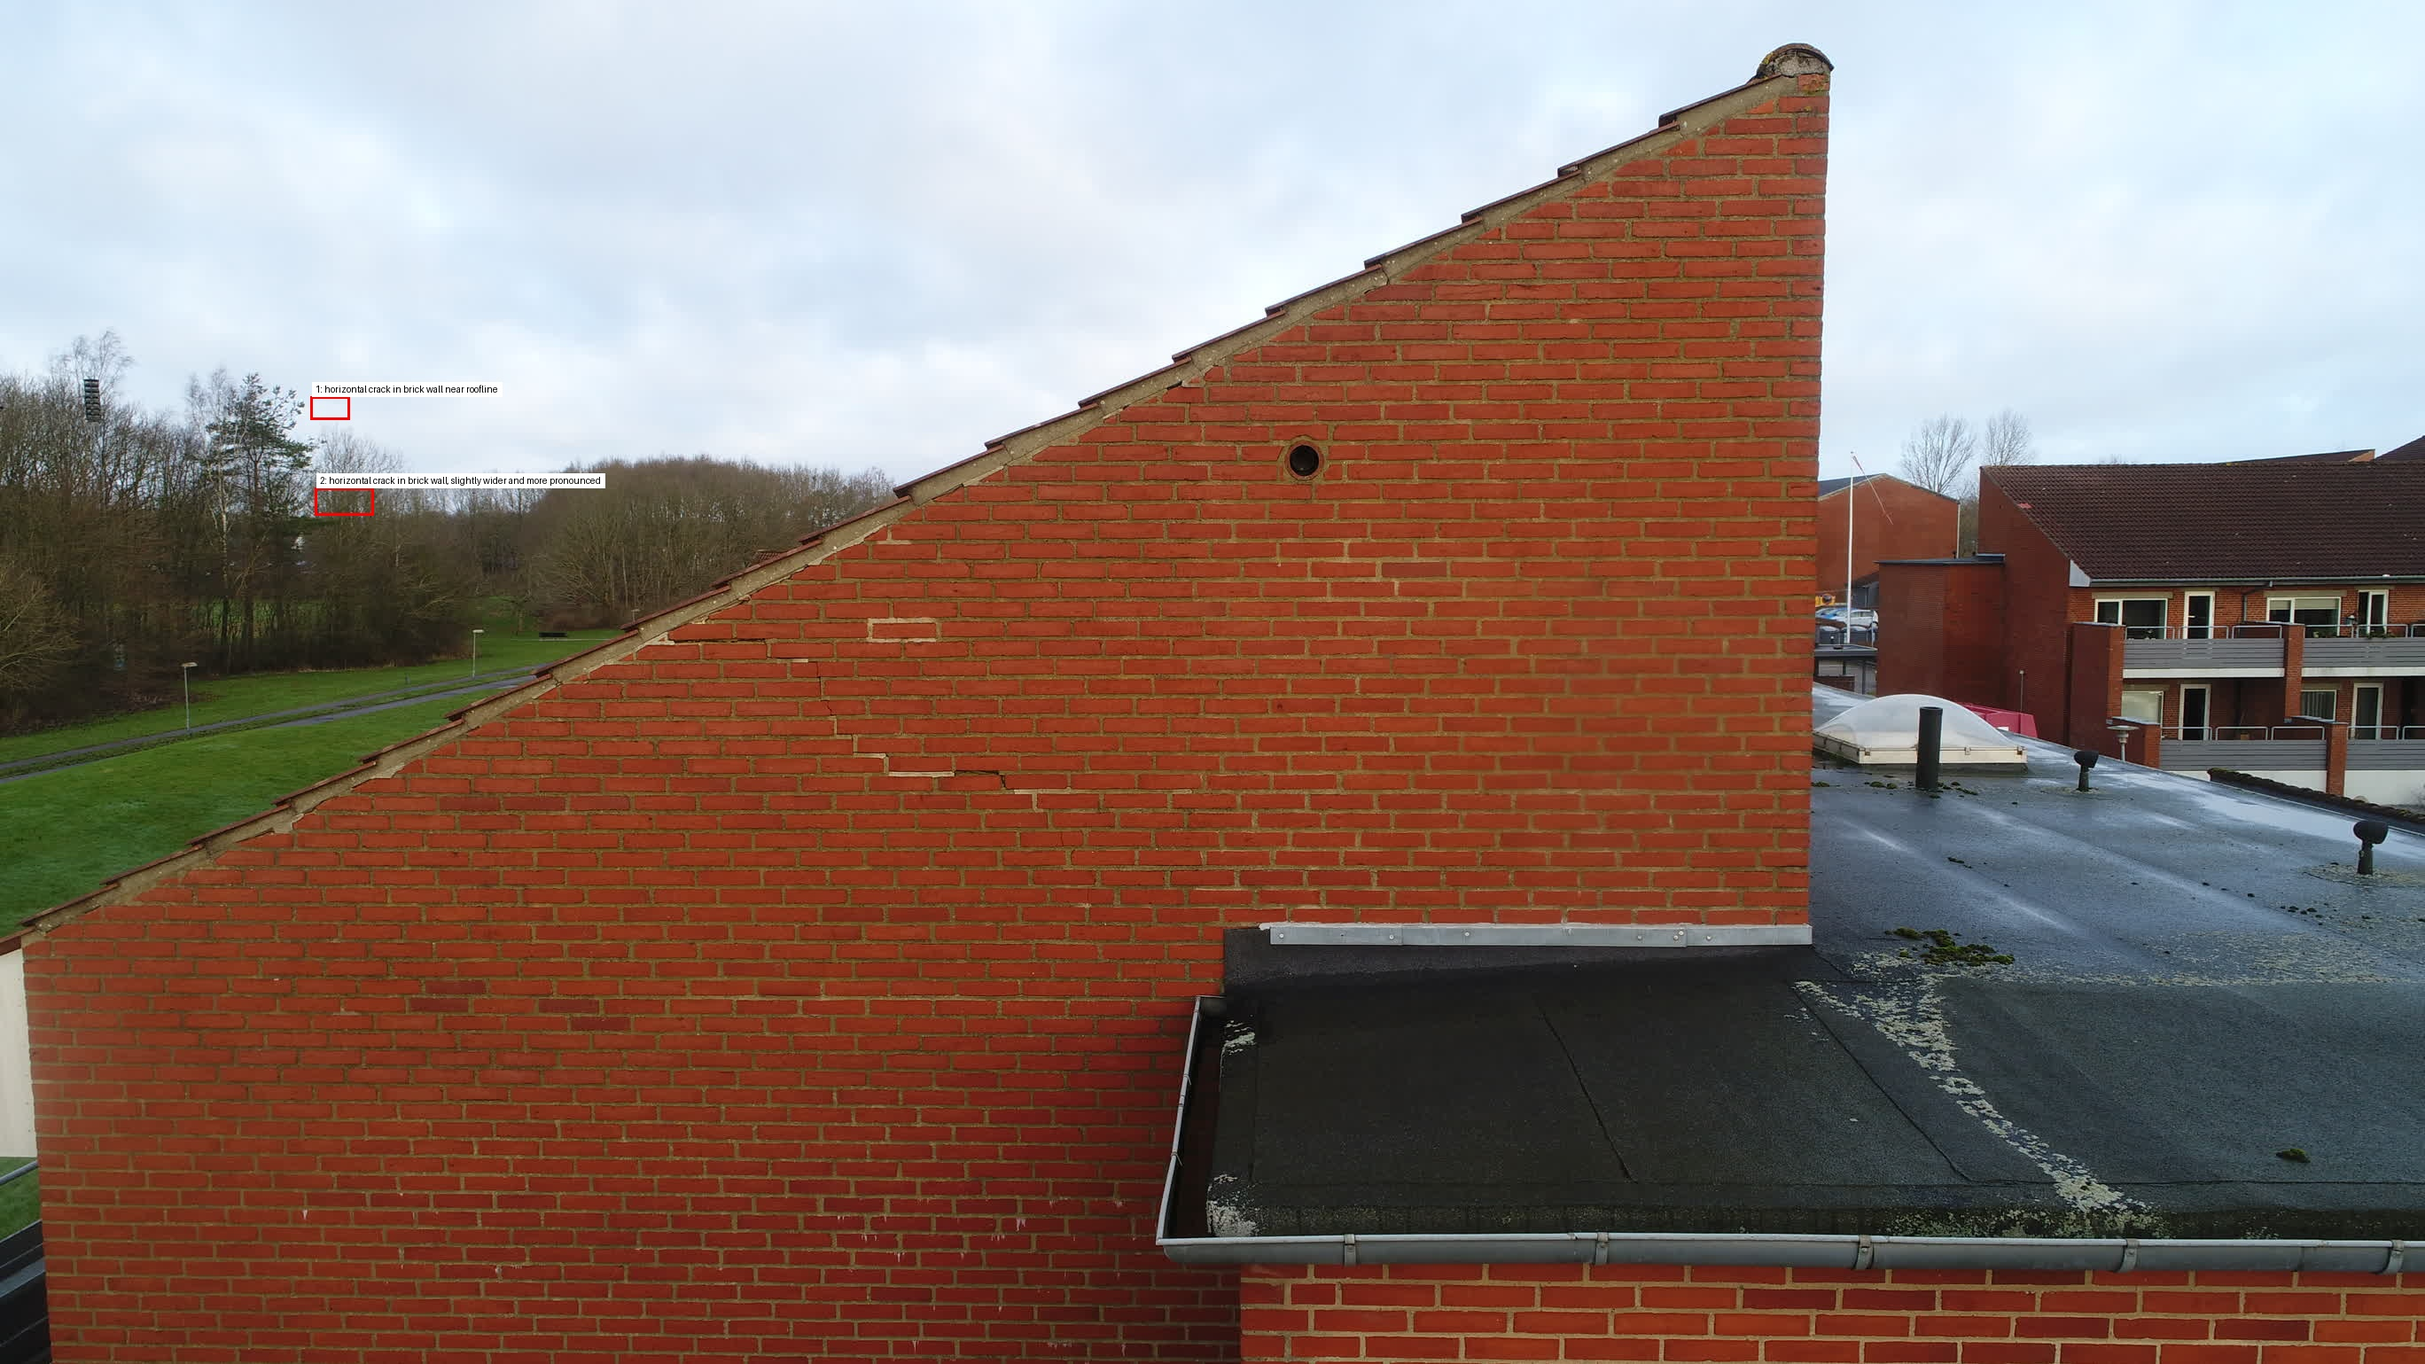
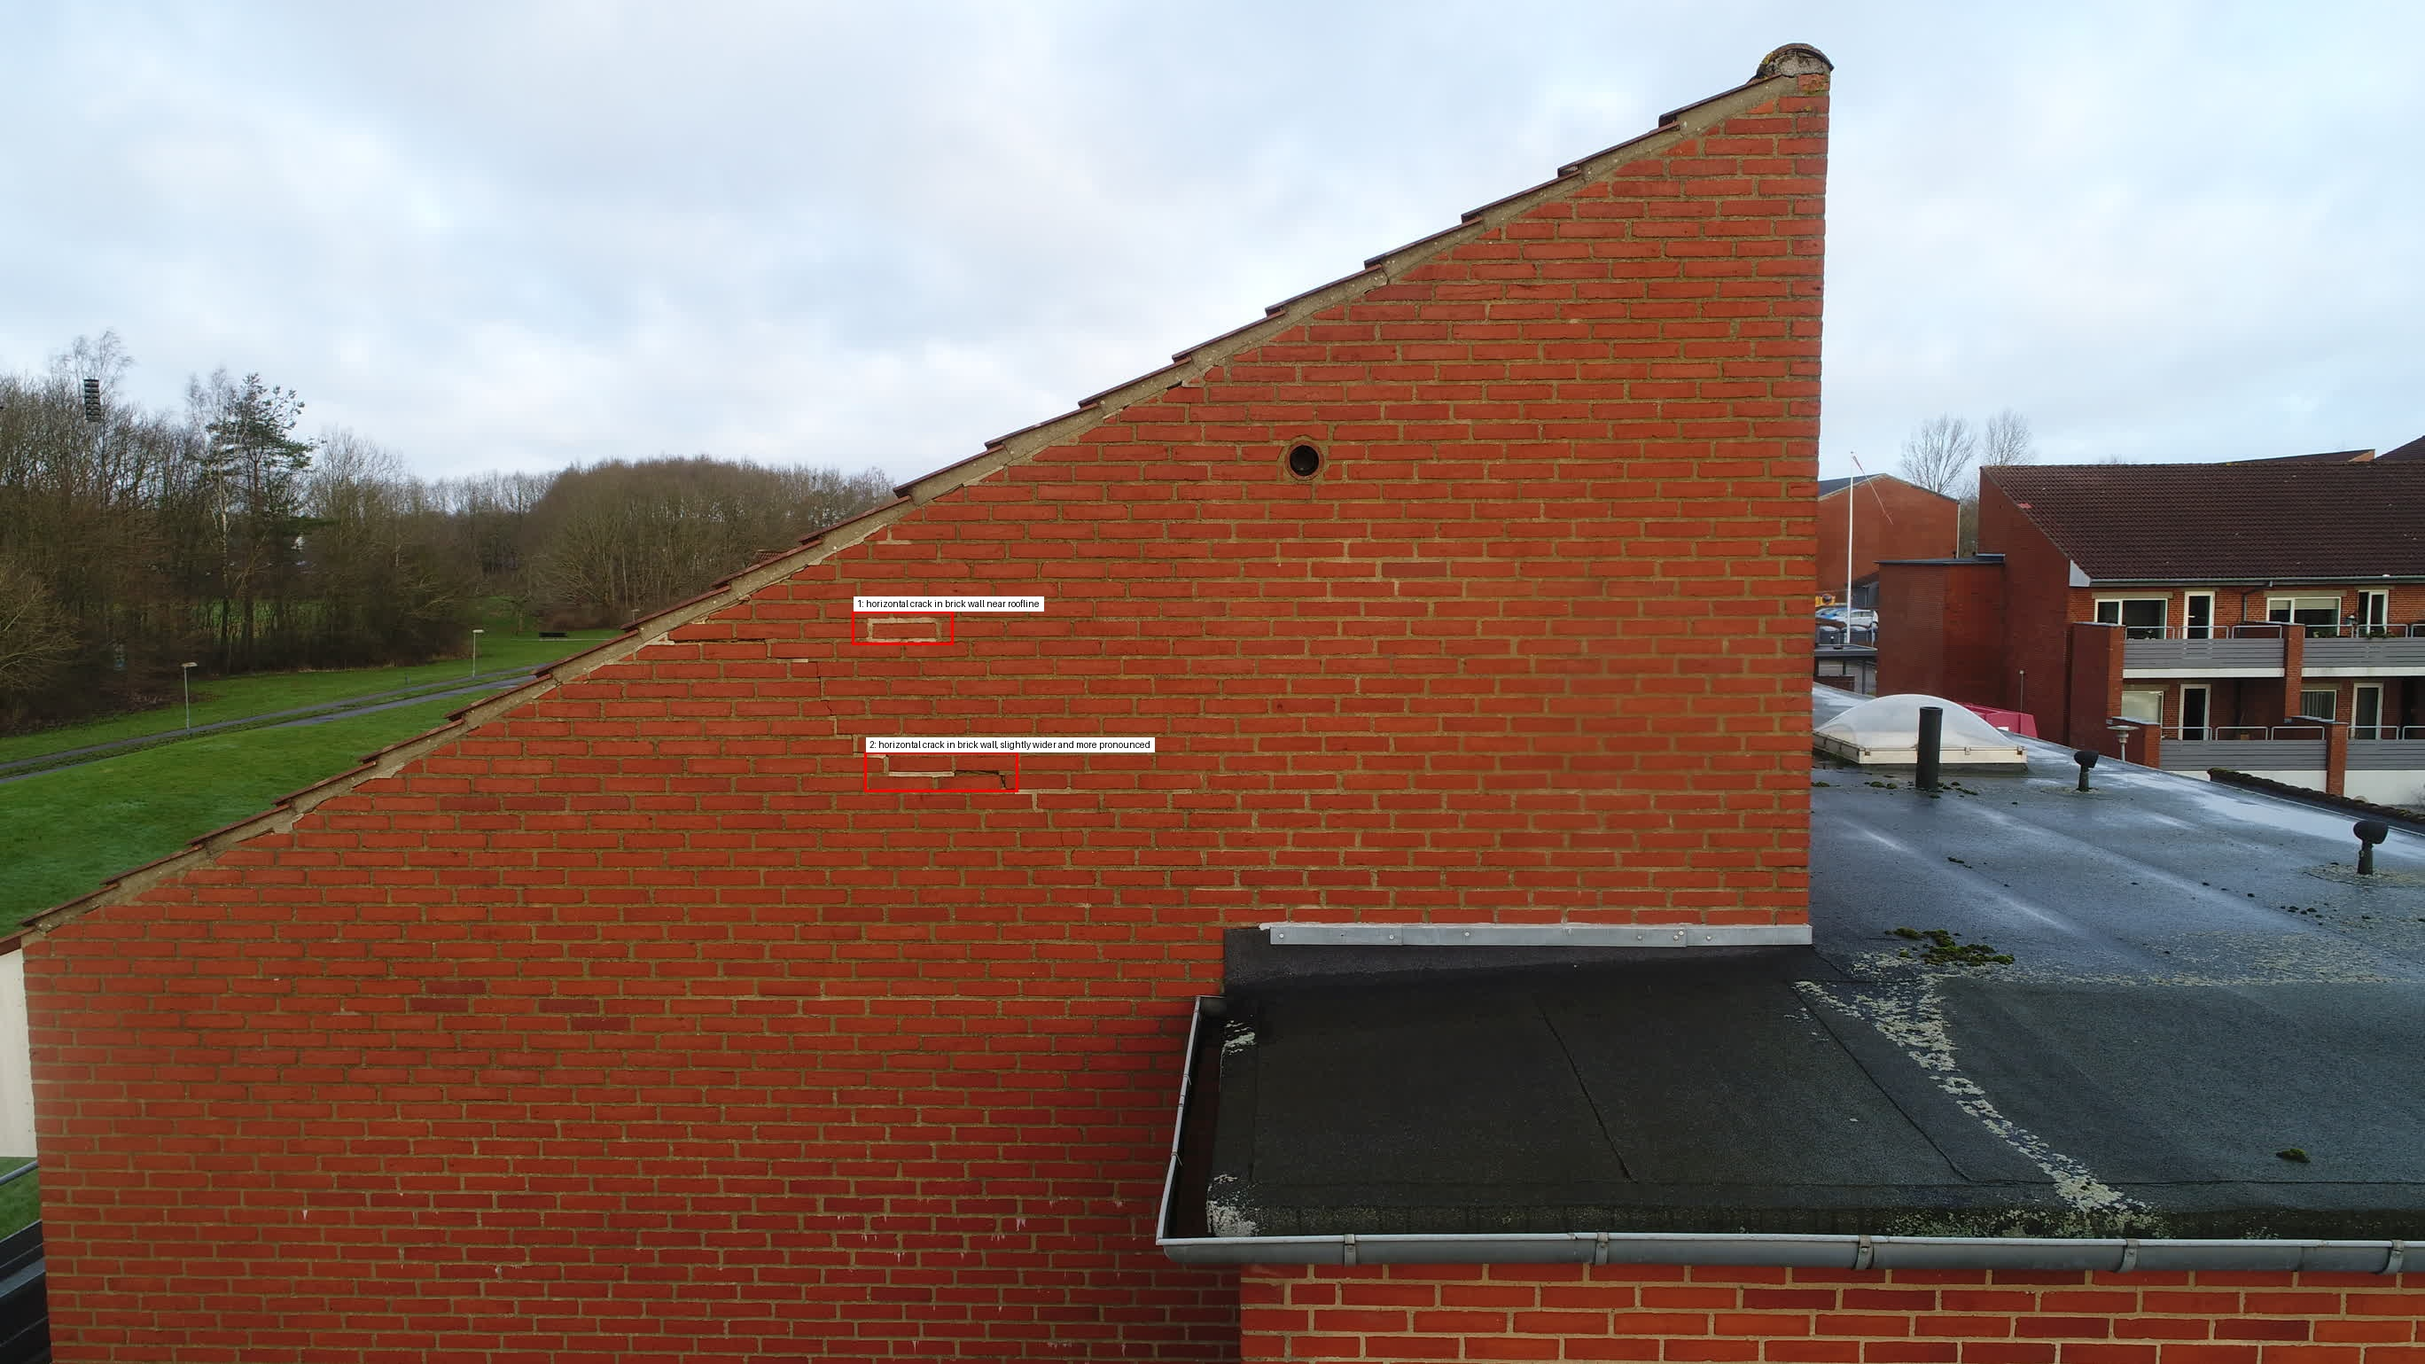
qwen format working

diff --git a/annotate_bboxes_from_url.py b/annotate_bboxes_from_url.py
@@ -2,19 +2,34 @@
 """
 Annotate bounding boxes on an image loaded from a URL or file.
 
-- Downloads the image from a URL or loads it from local disk
-- Draws each bbox from the provided data (x1, y1, x2, y2)
-- Writes an annotated copy next to the script
+- Loads image from local disk or downloads from a URL
+- Draws each bbox from JSON input or a YOLO label file
+- Supports formats: corners [x1,y1,x2,y2], YOLO [xc,yc,w,h] (norm/abs), YOLO 5-tuple [cls,xc,yc,w,h], and Qwen-1000 corners [x1,y1,x2,y2] where coords are in 0..1000 regardless of resize
+- Can optionally remap boxes created at a different source resolution
 
 Dependencies: pillow, requests
     pip install pillow requests
 
 Usage examples:
-    # (1) Corners format [x1,y1,x2,y2]
-    python annotate_bboxes_from_url.py --file "C:/path/to/img.jpg" --data '{"cracks":[{"bbox_2d":[100,120,180,160]}]}' --bbox-format corners
+    # 1) Corners format [x1,y1,x2,y2]
+    python annotate_bboxes_from_url.py --file "C:/path/to/img.jpg" \
+      --data '{"cracks":[{"bbox_2d":[100,120,180,160]}]}' --bbox-format corners
 
-    # (2) YOLO normalized [xc,yc,w,h] in [0,1]
-    python annotate_bboxes_from_url.py --file "C:/path/to/img.jpg" --data '{"cracks"
+    # 2) YOLO normalized [xc,yc,w,h] in [0,1]
+    python annotate_bboxes_from_url.py --file "C:/path/to/img.jpg" \
+      --data '{"cracks":[{"bbox_2d":[0.52,0.41,0.08,0.05]}]}' --bbox-format yolo_norm
+
+    # 3) Qwen-1000 corners [x1,y1,x2,y2] with coordinates in 0..1000 (independent of resize)
+    python annotate_bboxes_from_url.py --file "C:/path/to/img.jpg" \
+      --data '{"cracks":[{"bbox_2d":[250,250,500,500]}]}' --bbox-format qwen1000
+
+    # 4) Read a YOLO label file (one line per box: cls xc yc w h)
+    python annotate_bboxes_from_url.py --file "C:/path/to/img.jpg" --labels "C:/path/to/img.txt" --bbox-format yolo_norm5
+
+    # 5) If labels were generated on a resized image (e.g., 640x640), map to original size
+    python annotate_bboxes_from_url.py --file img.jpg --labels img.txt --bbox-format yolo_norm5 --source-size 640x640
+
+Note: On Windows, wrap paths in quotes.
 """
 
 from __future__ import annotations
@@ -74,22 +89,60 @@ def _yolo_to_corners(xc: float, yc: float, w: float, h: float, img_w: int, img_h
     return x1, y1, x2, y2
 
 
+def _qwen1000_to_corners(x1: float, y1: float, x2: float, y2: float, img_w: int, img_h: int) -> Tuple[int,int,int,int]:
+    """Qwen-3 style: coords in [0,1000] regardless of internal resize.
+    Convert to pixel corners for the current image size.
+    """
+    sx, sy = img_w / 1000.0, img_h / 1000.0
+    X1 = int(round(x1 * sx))
+    Y1 = int(round(y1 * sy))
+    X2 = int(round(x2 * sx))
+    Y2 = int(round(y2 * sy))
+    X1 = max(0, min(img_w - 1, X1))
+    Y1 = max(0, min(img_h - 1, Y1))
+    X2 = max(0, min(img_w - 1, X2))
+    Y2 = max(0, min(img_h - 1, Y2))
+    return X1, Y1, X2, Y2
+
+
+def _apply_source_size_scale(nums: List[float], src_w: int, src_h: int, fmt: str) -> List[float]:
+    """If bboxes were produced on a different source size, scale to 0..1 or pixels accordingly.
+    For YOLO normalized, no change needed. For YOLO absolute: map from src->current done later by _yolo_to_corners via img size.
+    For corners: scale coordinates from source to current later via separate path.
+    Here we just return the same list; scaling is handled in draw_bboxes where we know img size.
+    """
+    return nums
+
+
+def _read_yolo_label_file(path: str) -> List[Dict[str, Any]]:
+    items: List[Dict[str, Any]] = []
+    with open(path, "r", encoding="utf-8") as f:
+        for line in f:
+            line = line.strip()
+            if not line or line.startswith("#"):
+                continue
+            parts = line.split()
+            if len(parts) != 5:
+                continue
+            cls, xc, yc, w, h = parts
+            items.append({"bbox_2d": [float(cls), float(xc), float(yc), float(w), float(h)], "description": "label"})
+    return items
+
 def draw_bboxes(img: Image.Image, items: List[Dict[str, Any]],
                 box_color=(255, 0, 0), text_bg=(255, 255, 255), text_color=(0, 0, 0),
                 box_width: int = 3,
-                bbox_format: str = "auto") -> Image.Image:
+                bbox_format: str = "auto",
+                source_size: Tuple[int, int] | None = None) -> Image.Image:
     """
     bbox_format options:
-      - "auto" (default):
-          * len==4 & all in [0,1] -> YOLO normalized [xc,yc,w,h]
-          * len==5 & first not used as class if all in [0,1] for last 4 -> YOLO normalized with class
-          * len==5 & last 4 >1 -> YOLO abs with class
-          * else len==4 -> assume corners [x1,y1,x2,y2]
+      - "auto" (default)
       - "corners": [x1,y1,x2,y2]
       - "yolo_norm": [xc,yc,w,h] normalized (no class)
       - "yolo_abs": [xc,yc,w,h] in pixels (no class)
       - "yolo_norm5": [class,xc,yc,w,h] normalized
       - "yolo_abs5": [class,xc,yc,w,h] in pixels
+      - "qwen1000": [x1,y1,x2,y2] with each coord in 0..1000 (independent of resize)
+      - "qwen1000_5": [class,x1,y1,x2,y2] with coords in 0..1000
     """
     draw = ImageDraw.Draw(img)
 
@@ -98,20 +151,28 @@ def draw_bboxes(img: Image.Image, items: List[Dict[str, Any]],
     except Exception:
         font = ImageFont.load_default()
 
-        img_w, img_h = img.size
+    img_w, img_h = img.size
 
     for idx, item in enumerate(items, start=1):
         bbox = item.get("bbox_2d") or item.get("bbox") or item.get("yolo")
         if not bbox:
             continue
-        # normalize list of numbers
+        # to floats
         try:
             nums = [float(v) for v in bbox]
         except Exception:
             continue
 
         x1 = y1 = x2 = y2 = None
-        fmt = bbox_format.lower() if bbox_format else "auto"
+        fmt = (bbox_format or "auto").lower()
+
+        # Optional rescaling if corners were authored at a different source size
+        if fmt == "corners" and source_size is not None:
+            src_w, src_h = source_size
+            if len(nums) == 4 and src_w > 0 and src_h > 0:
+                sx = img_w / float(src_w)
+                sy = img_h / float(src_h)
+                nums = [nums[0] * sx, nums[1] * sy, nums[2] * sx, nums[3] * sy]
 
         if fmt == "corners":
             if len(nums) != 4:
@@ -125,25 +186,45 @@ def draw_bboxes(img: Image.Image, items: List[Dict[str, Any]],
                 xc, yc, w, h = nums
             else:
                 continue
+            # If YOLO ABS produced at a different source size, scale to current image
+            if not normalized and source_size is not None:
+                src_w, src_h = source_size
+                sx = img_w / float(src_w)
+                sy = img_h / float(src_h)
+                xc, yc, w, h = xc * sx, yc * sy, w * sx, h * sy
             x1, y1, x2, y2 = _yolo_to_corners(xc, yc, w, h, img_w, img_h, normalized)
+        elif fmt in ("qwen1000", "qwen1000_5"):
+            # Qwen 0..1000 corners
+            if len(nums) == 5:
+                x1, y1, x2, y2 = nums[1], nums[2], nums[3], nums[4]
+            elif len(nums) == 4:
+                x1, y1, x2, y2 = nums
+            else:
+                continue
+            x1, y1, x2, y2 = _qwen1000_to_corners(x1, y1, x2, y2, img_w, img_h)
         else:  # auto
             if len(nums) == 5:
-                # Likely YOLO with class id
                 last4 = nums[1:5]
-                normalized = _is_normalized(last4)
-                x1, y1, x2, y2 = _yolo_to_corners(*last4, img_w, img_h, normalized)
-            elif len(nums) == 4:
-                if _is_normalized(nums):
-                    x1, y1, x2, y2 = _yolo_to_corners(*nums, img_w, img_h, True)
+                if _is_normalized(last4):  # YOLO normalized with class
+                    x1, y1, x2, y2 = _yolo_to_corners(*last4, img_w, img_h, True)
+                elif all(0.0 <= v <= 1000.0 for v in last4) and any(v > 1.0 for v in last4):  # Qwen-1000 with class
+                    x1, y1, x2, y2 = _qwen1000_to_corners(*last4, img_w, img_h)
                 else:
-                    # Assume corners
+                    x1, y1, x2, y2 = _yolo_to_corners(*last4, img_w, img_h, False)
+            elif len(nums) == 4:
+                if _is_normalized(nums):  # YOLO normalized
+                    x1, y1, x2, y2 = _yolo_to_corners(*nums, img_w, img_h, True)
+                elif all(0.0 <= v <= 1000.0 for v in nums) and any(v > 1.0 for v in nums):  # Qwen-1000 corners
+                    x1, y1, x2, y2 = _qwen1000_to_corners(*nums, img_w, img_h)
+                else:
                     x1, y1, x2, y2 = map(int, nums)
             else:
                 continue
+
         for offset in range(box_width):
             draw.rectangle([x1 - offset, y1 - offset, x2 + offset, y2 + offset], outline=box_color)
 
-                # Compose label (include class if present)
+        # Label
         desc = item.get("description") or "bbox"
         label_cls = None
         if isinstance(bbox, (list, tuple)) and len(bbox) == 5:
@@ -151,17 +232,12 @@ def draw_bboxes(img: Image.Image, items: List[Dict[str, Any]],
                 label_cls = int(float(bbox[0]))
             except Exception:
                 label_cls = None
-        if label_cls is not None:
-            label = f"{idx}: cls={label_cls} {desc}"
-        else:
-            label = f"{idx}: {desc}"
-
+        label = f"{idx}: {'cls='+str(label_cls)+' ' if label_cls is not None else ''}{desc}"
         tw, th = draw.textlength(label, font=font), font.size + 6
-        label_x = x1
-        label_y = max(0, y1 - th - 2)
-
-        draw.rectangle([label_x, label_y, label_x + tw + 8, label_y + th], fill=text_bg)
-        draw.text((label_x + 4, label_y + (th - font.size) // 2 - 1), label, fill=text_color, font=font)
+        lx = x1
+        ly = max(0, y1 - th - 2)
+        draw.rectangle([lx, ly, lx + tw + 8, ly + th], fill=text_bg)
+        draw.text((lx + 4, ly + (th - font.size) // 2 - 1), label, fill=text_color, font=font)
 
     return img
 
@@ -171,7 +247,7 @@ def parse_items(data: Dict[str, Any]) -> List[Dict[str, Any]]:
     for v in data.values():
         if isinstance(v, list):
             for el in v:
-                if isinstance(el, dict) and "bbox_2d" in el:
+                if isinstance(el, dict) and ("bbox_2d" in el or "bbox" in el or "yolo" in el):
                     items.append(el)
     return items
 
@@ -181,27 +257,17 @@ def main():
     group = p.add_mutually_exclusive_group()
     group.add_argument("--url", help="Image URL to download")
     group.add_argument("--file", help="Local image file path")
+    p.add_argument("--labels", help="YOLO label file path (lines: cls xc yc w h)")
     p.add_argument("--data", default=None,
-                   help="JSON string with bbox data. If omitted, uses DEFAULT_DATA in the script")
+                   help="JSON string with bbox data. If omitted, uses DEFAULT_DATA in the script unless --labels is provided")
     p.add_argument("--out", default="annotated_output.jpg", help="Output image filename")
-    p.add_argument("--bbox-format", choices=["auto", "corners", "yolo_norm", "yolo_abs", "yolo_norm5", "yolo_abs5"], default="auto",
-                   help="Format of bbox lists in the JSON. 'auto' tries to infer format.")
+    p.add_argument("--bbox-format", choices=["auto", "corners", "yolo_norm", "yolo_abs", "yolo_norm5", "yolo_abs5", "qwen1000", "qwen1000_5"], default="auto",
+                   help="Format of bbox lists in the JSON or labels. 'auto' tries to infer format.")
+    p.add_argument("--source-size", default=None,
+                   help="If bboxes were produced on a different resolution, give WxH (e.g., 640x640) so we can map to the current image size.")
     args = p.parse_args()
 
-    if args.data:
-        try:
-            data = json.loads(args.data)
-        except json.JSONDecodeError as e:
-            sys.stderr.write(f"Failed to parse --data JSON: {e}\n")
-            sys.exit(2)
-    else:
-        data = DEFAULT_DATA
-
-    items = parse_items(data)
-    if not items:
-        sys.stderr.write("No bbox items found in provided data. Expected objects with a 'bbox_2d' field.\n")
-        sys.exit(1)
-
+    # Load image
     try:
         if args.file:
             if not os.path.exists(args.file):
@@ -220,7 +286,43 @@ def main():
         sys.stderr.write(f"Failed to load image: {e}\n")
         sys.exit(3)
 
-    annotated = draw_bboxes(img, items, bbox_format=args.bbox_format)
+    # Parse bbox input (labels take precedence over data)
+    items: List[Dict[str, Any]] = []
+    if args.labels:
+        if not os.path.exists(args.labels):
+            sys.stderr.write(f"Label file does not exist: {args.labels}\n")
+            sys.exit(5)
+        print(f"Reading YOLO labels from: {args.labels}")
+        items = _read_yolo_label_file(args.labels)
+        # If labels were read, default to yolo_norm5 unless user set format explicitly
+        if args.bbox_format == "auto":
+            args.bbox_format = "yolo_norm5"
+    else:
+        if args.data:
+            try:
+                data = json.loads(args.data)
+            except json.JSONDecodeError as e:
+                sys.stderr.write(f"Failed to parse --data JSON: {e}\n")
+                sys.exit(2)
+        else:
+            data = DEFAULT_DATA
+        items = parse_items(data)
+        if not items:
+            sys.stderr.write("No bbox items found in provided data. Expected objects with a bbox field.\n")
+            sys.exit(1)
+
+    # Parse source size if provided
+    source_size = None
+    if args.source_size:
+        try:
+            w_str, h_str = args.source_size.lower().split("x")
+            source_size = (int(w_str), int(h_str))
+            print(f"Mapping boxes from source size {source_size} to image size {img.size}")
+        except Exception:
+            sys.stderr.write("--source-size must be like 640x640\n")
+            sys.exit(6)
+
+    annotated = draw_bboxes(img, items, bbox_format=args.bbox_format, source_size=source_size)
     annotated.save(args.out, quality=95)
     print(f"Saved: {args.out} | size: {annotated.size[0]}x{annotated.size[1]}")
 

diff --git a/ReadMe.md b/ReadMe.md
@@ -13,3 +13,5 @@ python annotate_bboxes_from_url.py --file "C:/path/to/img.jpg" \
   --bbox-format yolo_norm
 
   python annotate_bboxes_from_url.py --file "C:/Users/rico/Pictures/DJI_0942.jpg" --bbox-format yolo_norm
+
+  python annotate_bboxes_from_url.py --file "C:/Users/rico/Pictures/DJI_0942.jpg" --bbox-format qwen1000
